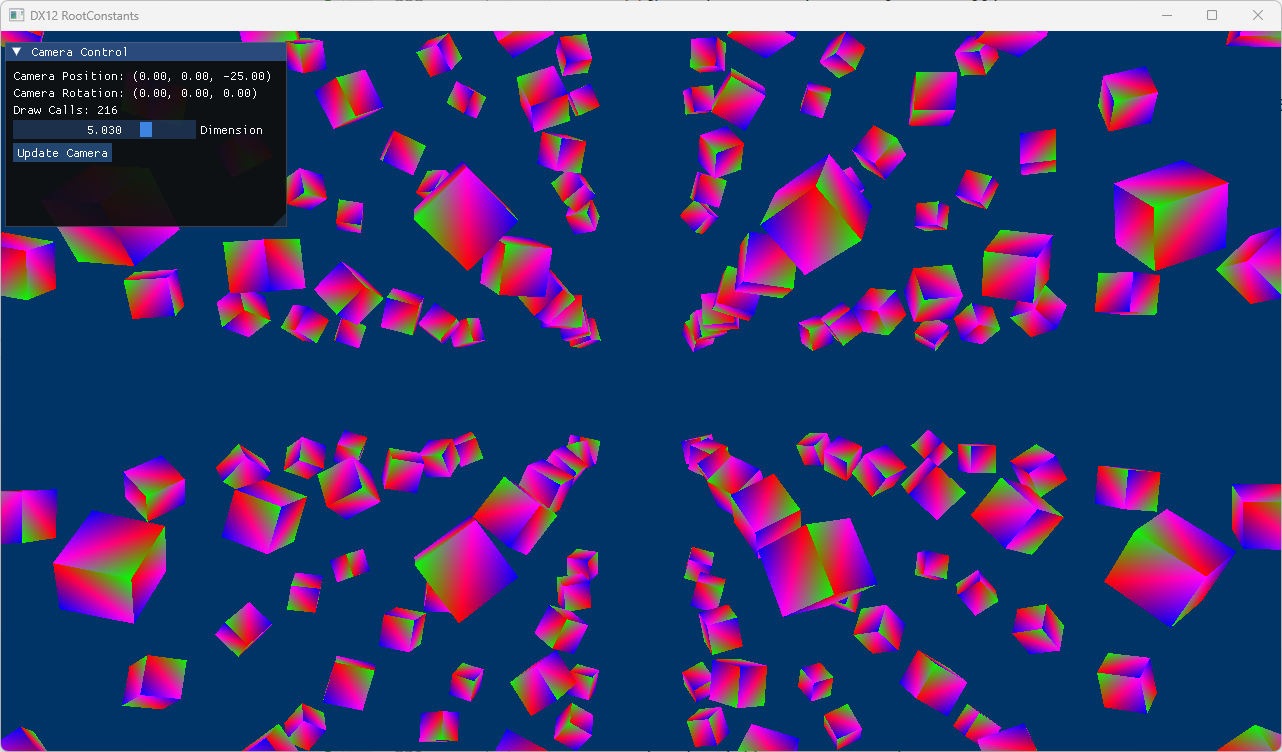
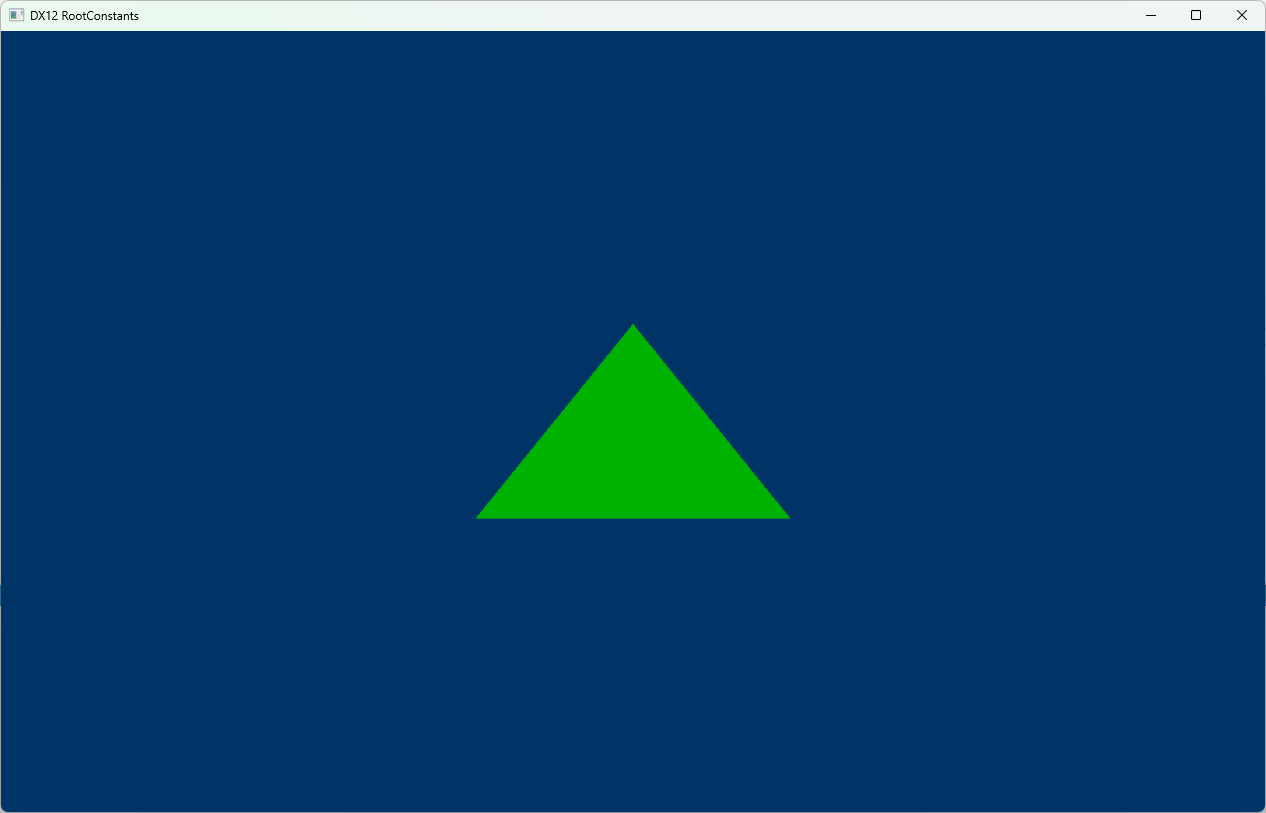
Update RootConstants sample

diff --git a/Src/RootConstants/RootConstants.cpp b/Src/RootConstants/RootConstants.cpp
@@ -116,10 +116,10 @@ public:
 
         D3D12_ROOT_PARAMETER pixelConstantRootParam = {};
         pixelConstantRootParam.ParameterType = D3D12_ROOT_PARAMETER_TYPE_32BIT_CONSTANTS;
-        pixelConstantRootParam.Constants.Num32BitValues = 4;
+        pixelConstantRootParam.Constants.Num32BitValues = 5;
         pixelConstantRootParam.Constants.ShaderRegister = 0; // b0
         pixelConstantRootParam.Constants.RegisterSpace = 0;
-        pixelConstantRootParam.ShaderVisibility = D3D12_SHADER_VISIBILITY_PIXEL;
+        pixelConstantRootParam.ShaderVisibility = D3D12_SHADER_VISIBILITY_ALL;
 
 
 
@@ -208,8 +208,8 @@ public:
         m_commandList->IASetPrimitiveTopology(D3D_PRIMITIVE_TOPOLOGY_TRIANGLELIST);
 
 
-        float triangleColor[] = { 0.1f, 0.7f, 0.1f, 1.0f };
-        m_commandList->SetGraphicsRoot32BitConstants(0, 4, &triangleColor, 0);
+        float rootConstantData[] = { 0.0f, 0.7f, 0.0f, 1.0f, 0.5f };
+        m_commandList->SetGraphicsRoot32BitConstants(0, 5, &rootConstantData, 0);
         m_commandList->DrawInstanced(3, 1, 0, 0);
 
 		// Close the command list to prepare it for execution
